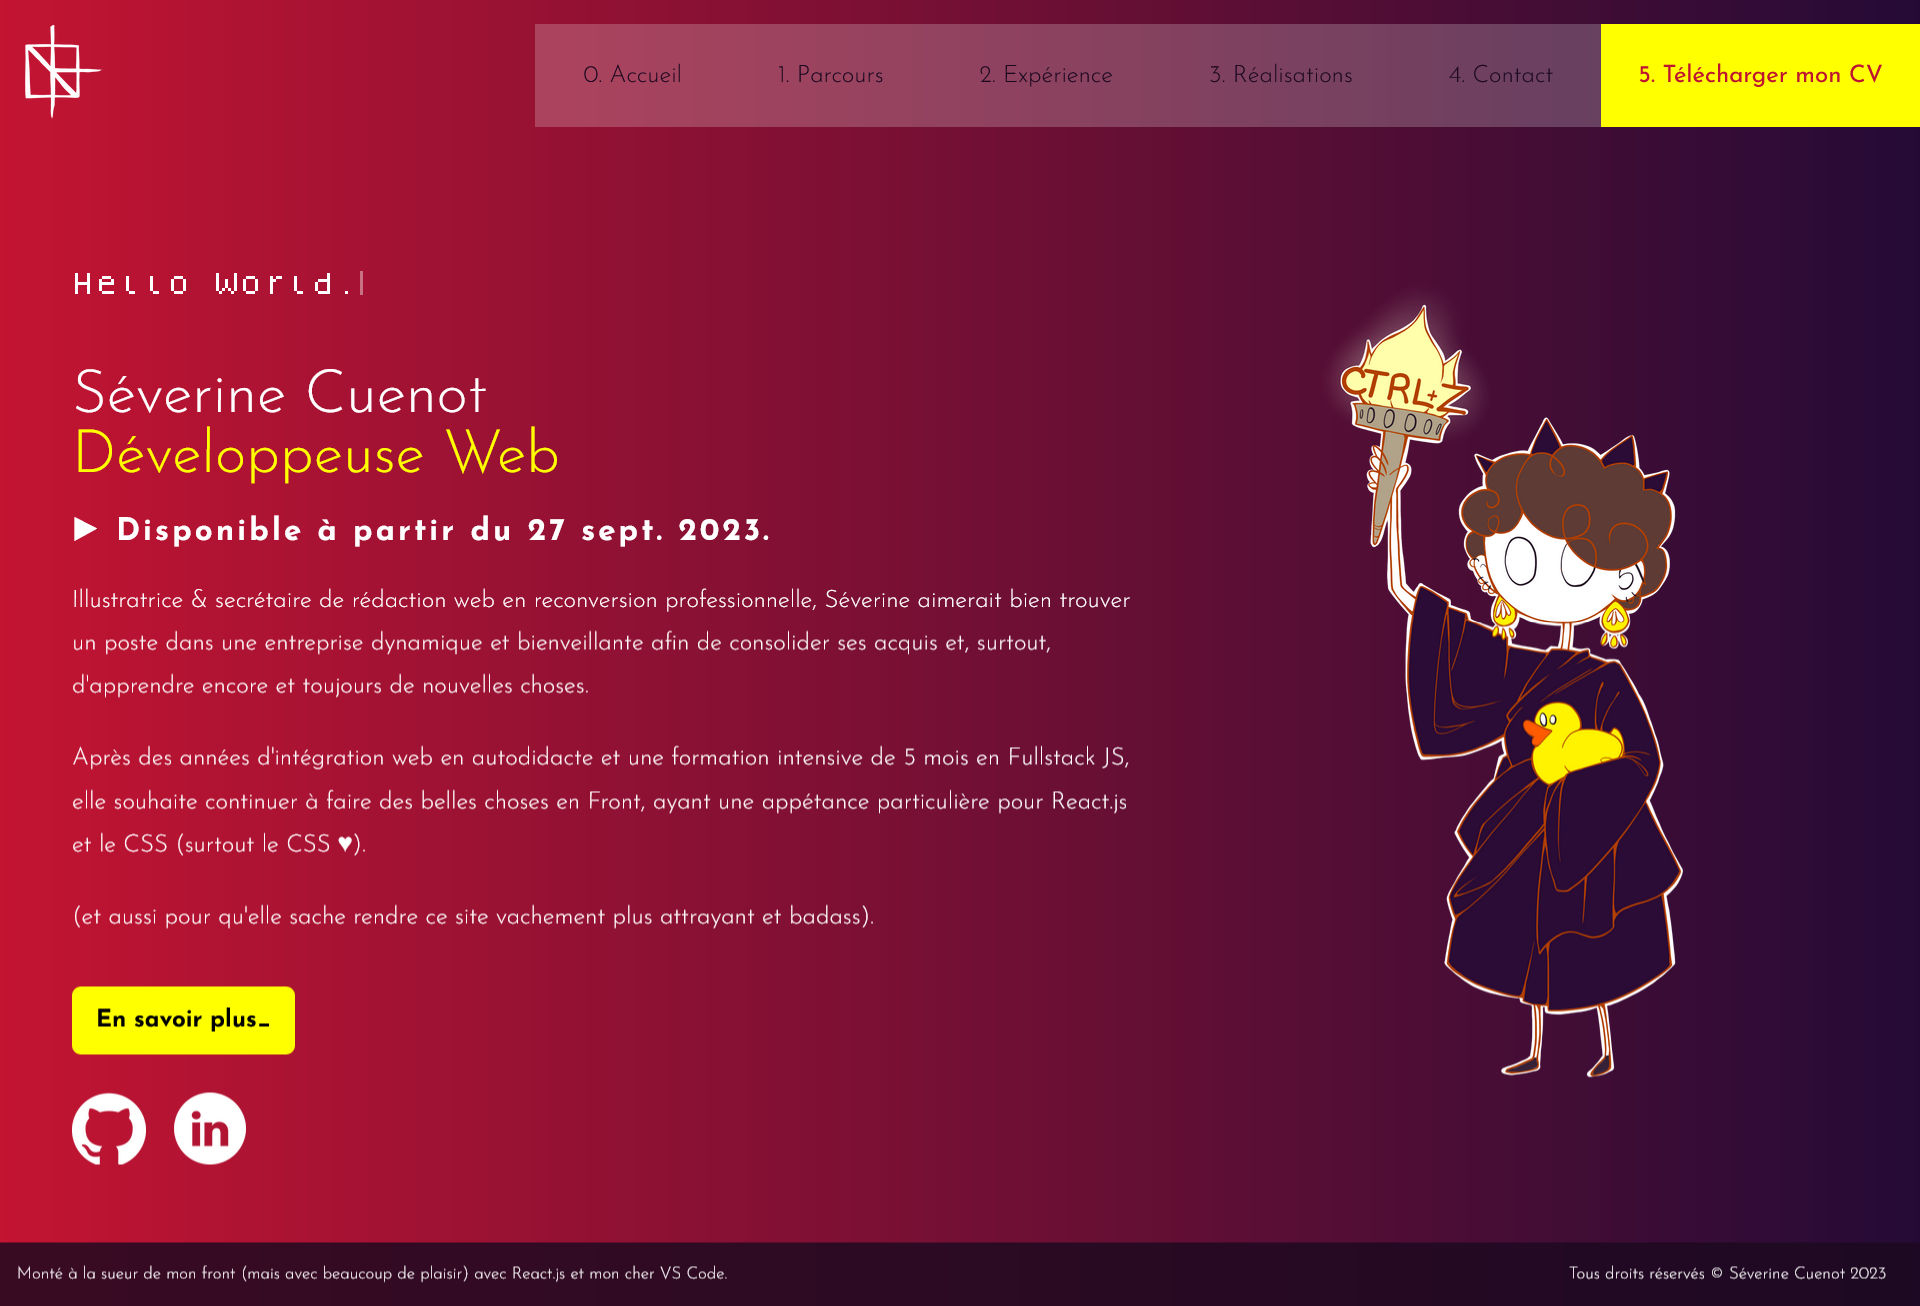
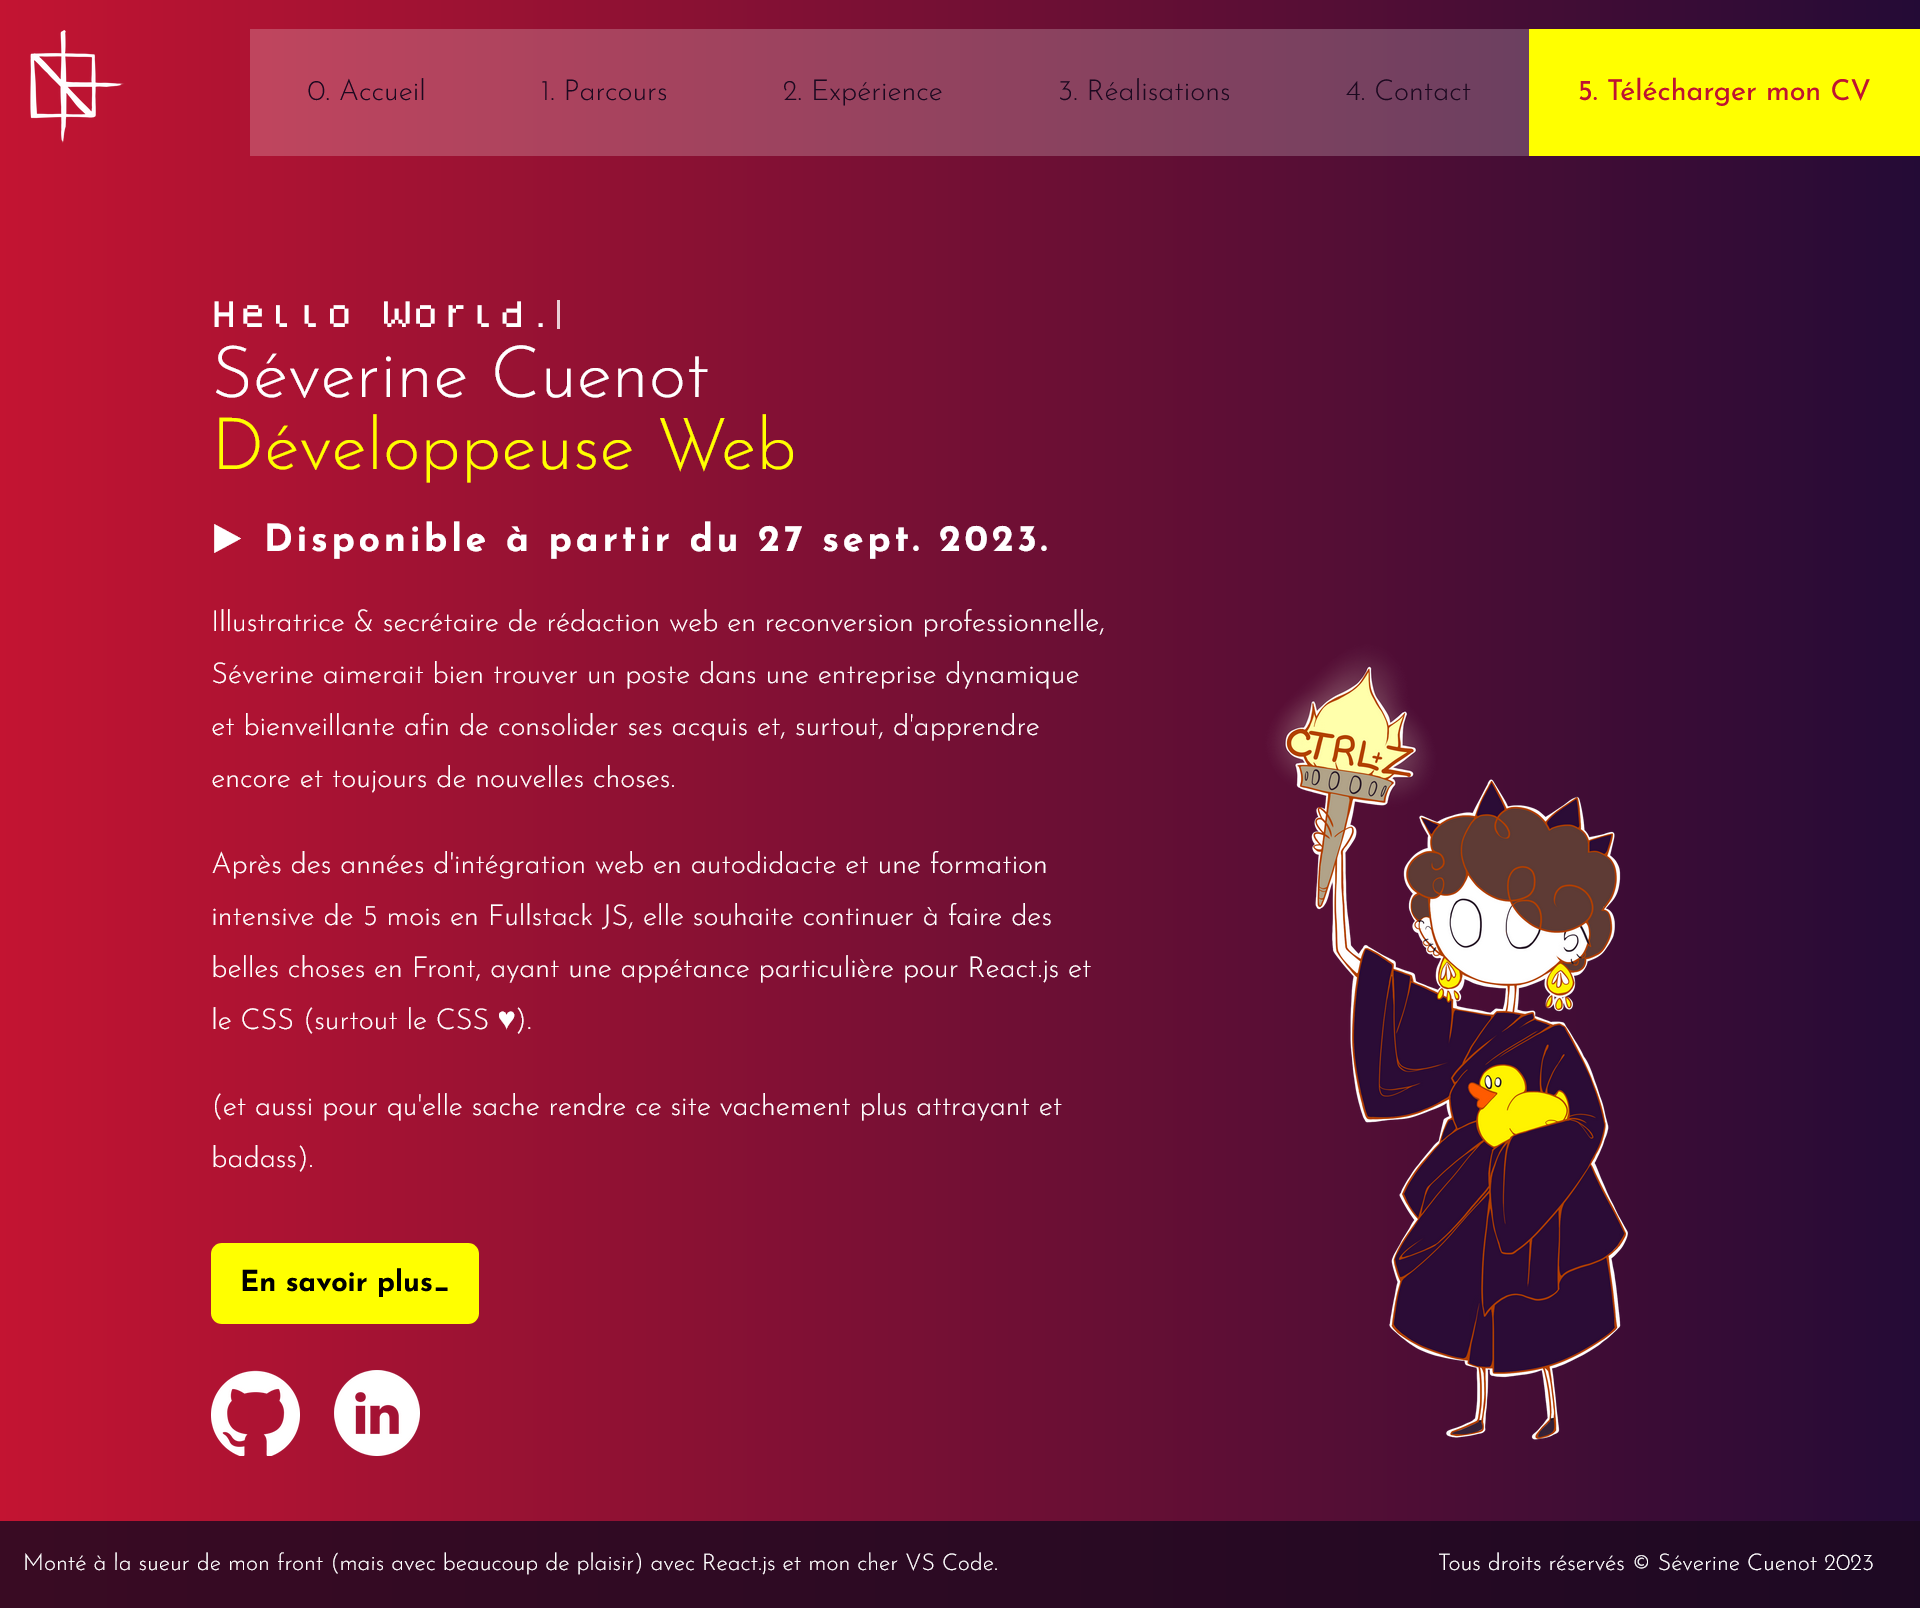
:art: style : perfected css for contact and home page

diff --git a/src/pages/contact/index.js b/src/pages/contact/index.js
@@ -18,12 +18,22 @@ function Contact() {
       <section className="section">
         <header className="section__header">
           <h1 className="section__title">Contact</h1>
-          <p className="contact__text">
-            Si vous souhaitez me contacter, vous pouvez
-            m'écrire à <a href={emailLink} className="link">{emailText}</a> ou bien remplir le formulaire ci-dessous.
-          </p>
         </header>
-        <ContactForm />
+        <p className="contact__text">
+          Si vous souhaitez me contacter, vous pouvez
+          m'écrire à <a href={emailLink} className="link">{emailText}</a> ou bien remplir le formulaire ci-dessous.
+        </p>
+
+        <div className="section__blocks">
+          <div className="section__block--left">
+            <ContactForm />
+          </div>
+          <div className="contact__block--right">
+            <aside>
+              <img src="../../img/nine_liberty.png" className="contact__block--right--img" alt="Nine" />
+            </aside>
+          </div>
+        </div>
       </section>
     </Page>
   );

diff --git a/src/pages/contact/style.scss b/src/pages/contact/style.scss
@@ -53,5 +53,22 @@ textarea {
     display: flex;
     flex-direction: column;
   }
-
+}
+.contact {
+  &__block--right {
+    width: 100%; 
+    @media (min-width: 768px) {
+      width: 30%;
+    }
+  }
+  &__text {
+    margin-bottom: 1.5em;
+  }
+  &__block--right--img {
+    width: 80%; 
+    @media (min-width: 768px) {
+      width: 60%;
+      min-width: 250px;
+    }
+  }
 }

diff --git a/src/pages/home/style.scss b/src/pages/home/style.scss
@@ -34,6 +34,7 @@
     display: flex;
     justify-content: space-between;
     flex-wrap: wrap;
+    align-items: flex-end;
   }
 
   &__block--left {
